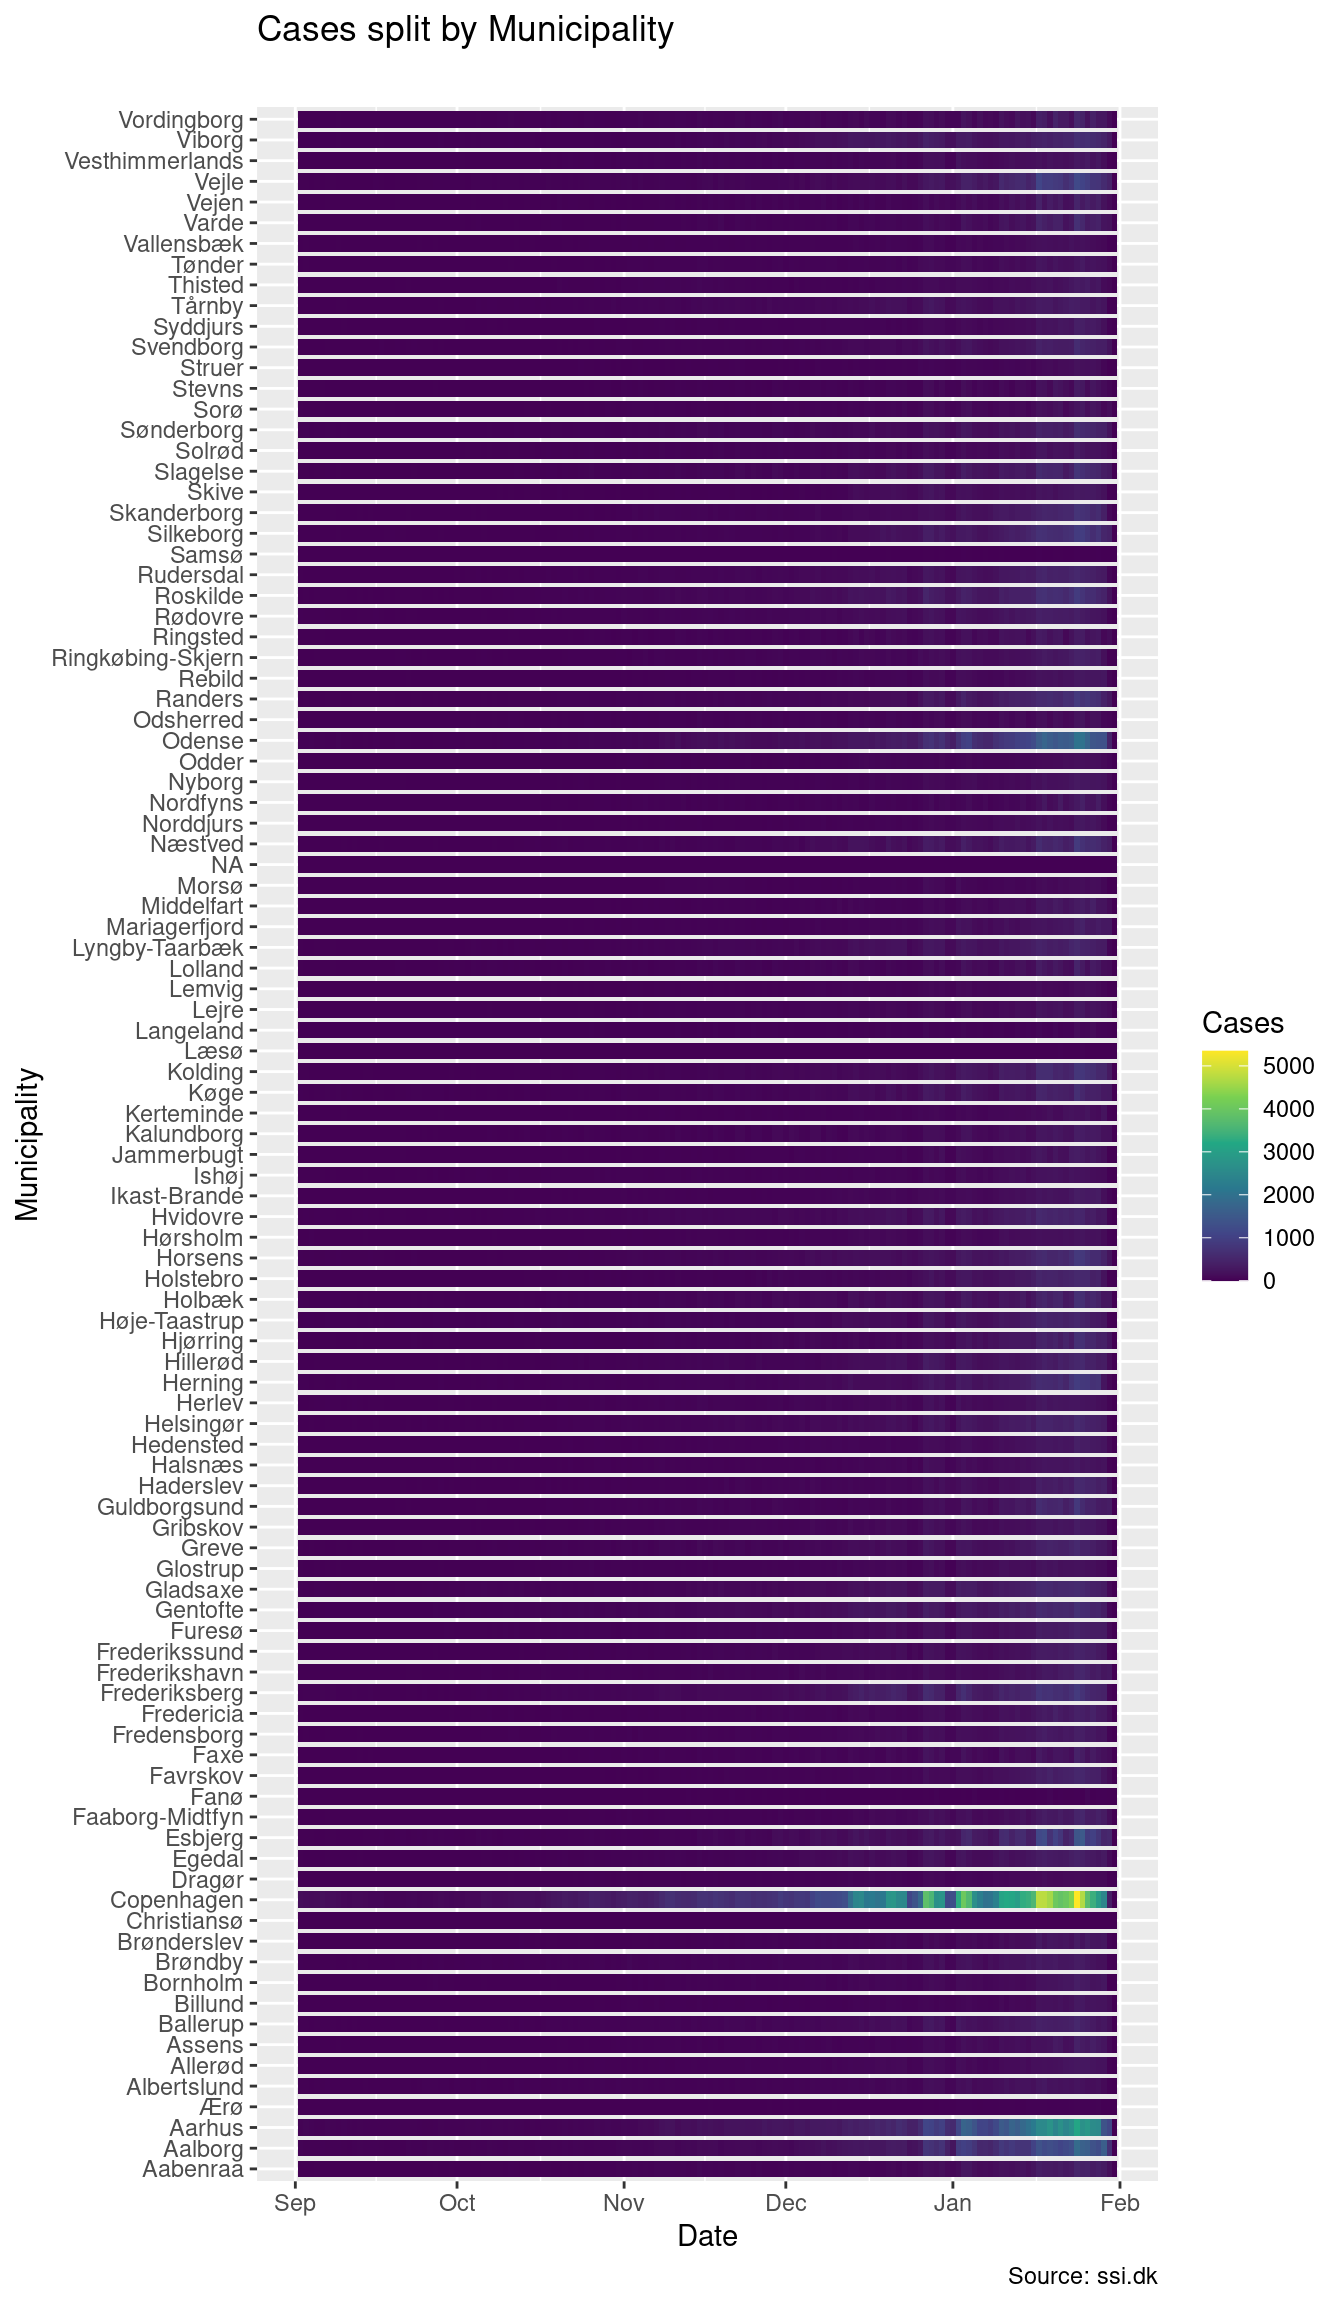
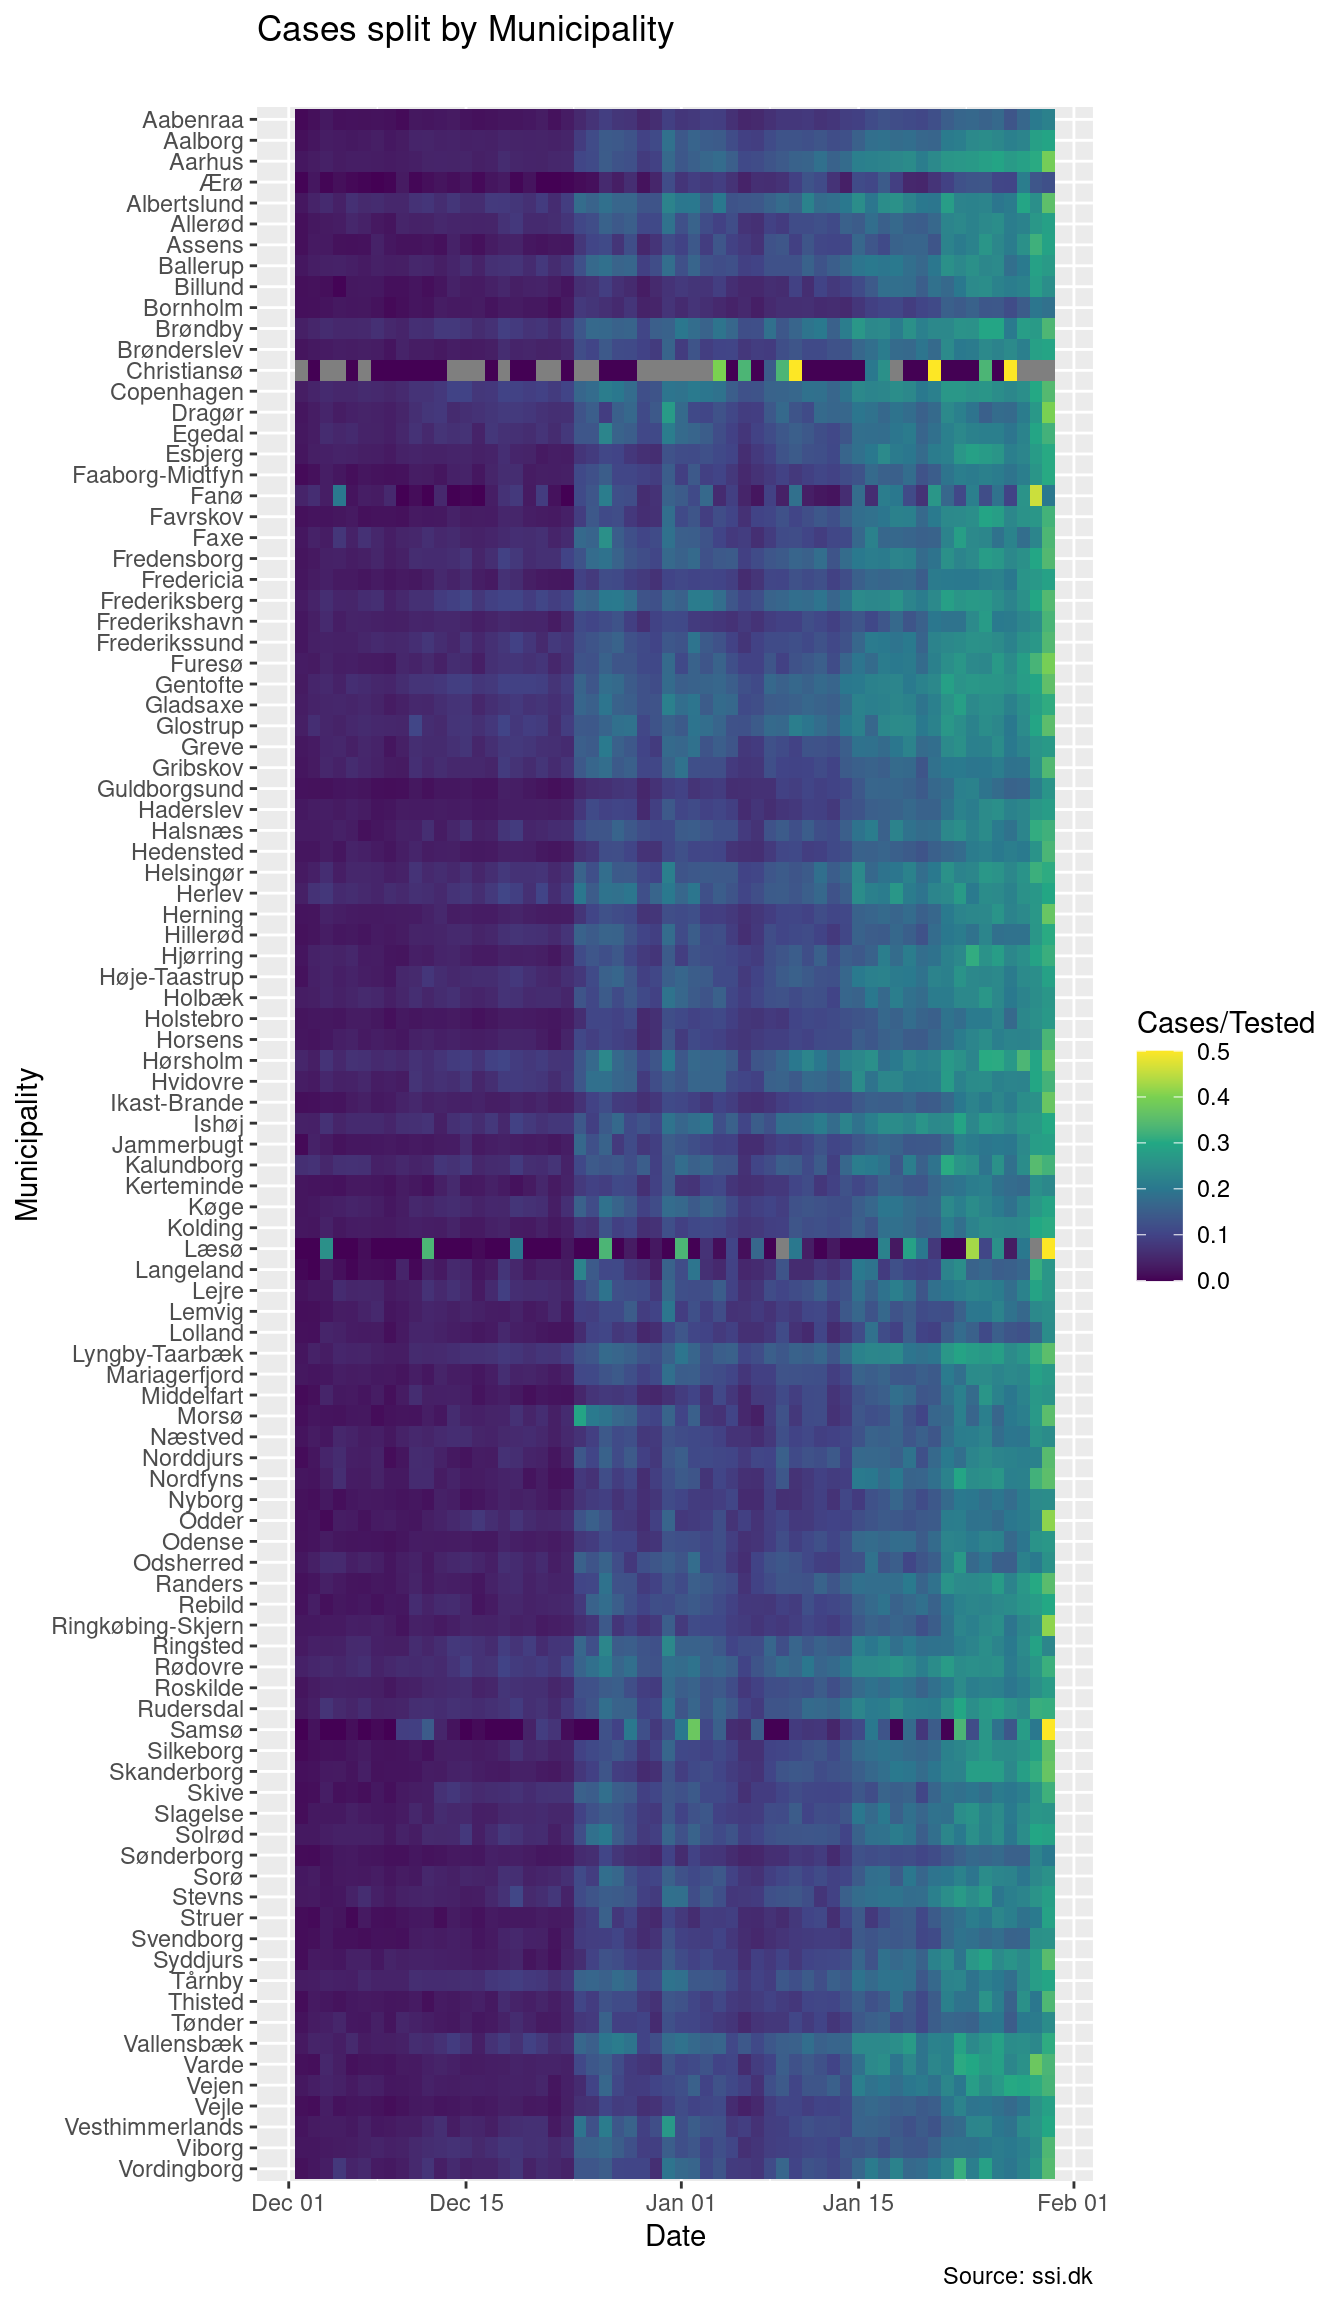
Load more data sets.

diff --git a/docs/core.html b/docs/core.html
@@ -271,7 +271,8 @@ $(document).ready(function () {
 <ul>
 <li><a href="#how-data-is-read-and-handled">How data is read and handled</a>
 <ul>
-<li><a href="#municipality-cases-as-a-time-series">Municipality cases as a time series</a></li>
+<li><a href="#case-estimation-of-rt">Case Estimation of R<sub>t</sub></a></li>
+<li><a href="#municipality-cases-and-tests-as-a-time-series">Municipality cases and tests as a time series</a></li>
 </ul></li>
 <li><a href="#plots-of-interest">Plots of interest</a>
 <ul>
@@ -285,29 +286,45 @@ $(document).ready(function () {
 <h1>Covid 19 Stats for Denmark</h1>
 <p>This file provides the new development of Covid-19 stats. Where the original development took its data from the SSI Covid-19 Dashboard, this takes data in the form of the “raw” core data.</p>
 <p>One early important part of the process is to define a date range of interest. The current variant we are interested in is Omicron, so, we can focus on recent data, rather than the full period:</p>
-<pre class="r"><code>low_cutoff &lt;- &quot;2021-09-01&quot;</code></pre>
+<pre class="r"><code>low_cutoff &lt;- &quot;2021-12-01&quot;</code></pre>
+<p>Likewise, some files contain a date at which they were produced. For instance the estimation of R<sub>t</sub>:</p>
+<pre class="r"><code>rt_date &lt;- &quot;2022_02_01&quot;</code></pre>
 <div id="how-data-is-read-and-handled" class="section level2">
 <h2>How data is read and handled</h2>
 <p>The R site we are creating here uses a separate devleopment, <code>core.R</code> to read in and handle core data. This document then references into the core R development when needed for different code chunks. This allows us for easy scripting and exploration in the R session while also neatly handling dissemination in a document like this.</p>
 <p>We first need a couple of libraries</p>
+<pre class="r"><code>library(tidyverse)
+library(lubridate)</code></pre>
 <p>Where the Dashboard data is stored in ISO8859-1 format, the core data is already in UTF-8. So they are way easier to read. We can just point tidyverse’s <code>readr</code> package directly to the data at hand. Start by setting up a core path</p>
 <pre class="r"><code>path &lt;- &quot;./data/core&quot;</code></pre>
-<div id="municipality-cases-as-a-time-series" class="section level3">
-<h3>Municipality cases as a time series</h3>
+<div id="case-estimation-of-rt" class="section level3">
+<h3>Case Estimation of R<sub>t</sub></h3>
+<p>Read in the R<sub>t</sub> case estimation data</p>
+<pre class="r"><code>rt_cases_path &lt;- sprintf(&quot;%s/Rt_cases_%s.csv&quot;, path, rt_date)
+rt_cases &lt;- readr::read_csv2(rt_cases_path)
+rt_cases</code></pre>
+<pre><code>## # A tibble: 668 × 4
+##    SampleDate estimate uncertainty_lower uncertainty_upper
+##    &lt;date&gt;        &lt;dbl&gt;             &lt;dbl&gt;             &lt;dbl&gt;
+##  1 2020-03-26      0.9               0.6               1.1
+##  2 2020-03-27      0.9               0.6               1.1
+##  3 2020-03-28      0.8               0.6               1  
+##  4 2020-03-29      0.8               0.6               1  
+##  5 2020-03-30      0.8               0.6               1  
+##  6 2020-03-31      0.8               0.6               1  
+##  7 2020-04-01      0.8               0.6               1  
+##  8 2020-04-02      0.8               0.6               0.9
+##  9 2020-04-03      0.8               0.6               1  
+## 10 2020-04-04      0.8               0.6               1  
+## # … with 658 more rows</code></pre>
+</div>
+<div id="municipality-cases-and-tests-as-a-time-series" class="section level3">
+<h3>Municipality cases and tests as a time series</h3>
 <p>This data is easily read:</p>
 <pre class="r"><code>m_cases_timeseries_path &lt;- sprintf(&quot;%s/Municipality_cases_time_series.csv&quot;, path)
-m_cases_timeseries &lt;- readr::read_csv2(m_cases_timeseries_path)</code></pre>
-<pre><code>## ℹ Using &quot;&#39;,&#39;&quot; as decimal and &quot;&#39;.&#39;&quot; as grouping mark. Use `read_delim()` for more control.</code></pre>
-<pre><code>## Rows: 705 Columns: 101</code></pre>
-<pre><code>## ── Column specification ────────────────────────────────────────────────────────
-## Delimiter: &quot;;&quot;
-## dbl  (100): Roskilde, Copenhagen, Aarhus, Frederiksberg, Kalundborg, Middelf...
-## date   (1): SampleDate</code></pre>
-<pre><code>## 
-## ℹ Use `spec()` to retrieve the full column specification for this data.
-## ℹ Specify the column types or set `show_col_types = FALSE` to quiet this message.</code></pre>
-<pre class="r"><code>m_cases_timeseries</code></pre>
-<pre><code>## # A tibble: 705 × 101
+m_cases_timeseries &lt;- readr::read_csv2(m_cases_timeseries_path)
+m_cases_timeseries</code></pre>
+<pre><code>## # A tibble: 706 × 101
 ##    SampleDate Roskilde Copenhagen Aarhus Frederiksberg Kalundborg Middelfart
 ##    &lt;date&gt;        &lt;dbl&gt;      &lt;dbl&gt;  &lt;dbl&gt;         &lt;dbl&gt;      &lt;dbl&gt;      &lt;dbl&gt;
 ##  1 2020-02-26        1          0      0             0          0          0
@@ -320,7 +337,7 @@ m_cases_timeseries &lt;- readr::read_csv2(m_cases_timeseries_path)</code></pre>
 ##  8 2020-03-05        0          2      0             2          0          0
 ##  9 2020-03-06        0          0      0             0          0          0
 ## 10 2020-03-07        0          1      1             1          0          0
-## # … with 695 more rows, and 94 more variables: Gentofte &lt;dbl&gt;, Solrød &lt;dbl&gt;,
+## # … with 696 more rows, and 94 more variables: Gentofte &lt;dbl&gt;, Solrød &lt;dbl&gt;,
 ## #   Allerød &lt;dbl&gt;, Dragør &lt;dbl&gt;, Helsingør &lt;dbl&gt;, Hillerød &lt;dbl&gt;,
 ## #   Rudersdal &lt;dbl&gt;, Næstved &lt;dbl&gt;, Aalborg &lt;dbl&gt;, Vallensbæk &lt;dbl&gt;,
 ## #   Esbjerg &lt;dbl&gt;, Favrskov &lt;dbl&gt;, Frederikssund &lt;dbl&gt;, Furesø &lt;dbl&gt;,
@@ -329,10 +346,12 @@ m_cases_timeseries &lt;- readr::read_csv2(m_cases_timeseries_path)</code></pre>
 ## #   Egedal &lt;dbl&gt;, Faxe &lt;dbl&gt;, Fredericia &lt;dbl&gt;, Faaborg-Midtfyn &lt;dbl&gt;, …</code></pre>
 <p>However, as we see, the data is <em>messy</em> and not <em>tidy</em>. To make the data set tidy, we want to bring it on essentially 3rd normal form:</p>
 <pre class="r"><code>m_cases_timeseries &lt;- m_cases_timeseries %&gt;%
-  pivot_longer(cols = -c(`SampleDate`), names_to=&quot;Municipality&quot;, values_to=&quot;Cases&quot;)
+  pivot_longer(cols = -c(`SampleDate`), names_to=&quot;Municipality&quot;, values_to=&quot;Cases&quot;) %&gt;%
+  rename(date = `SampleDate`)
+
 m_cases_timeseries</code></pre>
-<pre><code>## # A tibble: 70,500 × 3
-##    SampleDate Municipality  Cases
+<pre><code>## # A tibble: 70,600 × 3
+##    date       Municipality  Cases
 ##    &lt;date&gt;     &lt;chr&gt;         &lt;dbl&gt;
 ##  1 2020-02-26 Roskilde          1
 ##  2 2020-02-26 Copenhagen        0
@@ -344,14 +363,41 @@ m_cases_timeseries</code></pre>
 ##  8 2020-02-26 Solrød            0
 ##  9 2020-02-26 Allerød           0
 ## 10 2020-02-26 Dragør            0
-## # … with 70,490 more rows</code></pre>
+## # … with 70,590 more rows</code></pre>
+<p>We use the same strategy for the tests:</p>
+<pre class="r"><code>m_tested_timeseries_path &lt;- sprintf(&quot;%s/Municipality_tested_persons_time_series.csv&quot;, path)
+m_tested_timeseries &lt;- readr::read_csv2(m_tested_timeseries_path)
+m_tested_timeseries &lt;- m_tested_timeseries %&gt;%
+  pivot_longer(cols = -c(`PrDate_adjusted`), names_to=&quot;Municipality&quot;, values_to=&quot;Tested&quot;) %&gt;%
+  rename(date = `PrDate_adjusted`)</code></pre>
+<p>Since these two tibbles are storing the same data, we can join them:</p>
+<pre class="r"><code>municipality &lt;- m_cases_timeseries %&gt;% left_join(m_tested_timeseries, by = c(&quot;date&quot;, &quot;Municipality&quot;))
+municipality &lt;- municipality %&gt;% mutate(Municipality = factor(Municipality))
+municipality</code></pre>
+<pre><code>## # A tibble: 70,600 × 4
+##    date       Municipality  Cases Tested
+##    &lt;date&gt;     &lt;fct&gt;         &lt;dbl&gt;  &lt;dbl&gt;
+##  1 2020-02-26 Roskilde          1      3
+##  2 2020-02-26 Copenhagen        0      4
+##  3 2020-02-26 Aarhus            0      2
+##  4 2020-02-26 Frederiksberg     0      1
+##  5 2020-02-26 Kalundborg        0      0
+##  6 2020-02-26 Middelfart        0      0
+##  7 2020-02-26 Gentofte          0      0
+##  8 2020-02-26 Solrød            0      0
+##  9 2020-02-26 Allerød           0      0
+## 10 2020-02-26 Dragør            0      0
+## # … with 70,590 more rows</code></pre>
 </div>
 </div>
 <div id="plots-of-interest" class="section level2">
 <h2>Plots of interest</h2>
 <div id="cases-in-different-municipalities" class="section level3">
 <h3>Cases in different municipalities</h3>
-<pre class="r"><code>p &lt;- ggplot(m_cases_timeseries %&gt;% filter(SampleDate &gt; low_cutoff), aes(x=SampleDate, y=Municipality, fill=Cases, height=0.8))
+<p>Generally, the most recent observations in the data sets are flawed. Their counts tend to increase over time as data is reported into the central register. Hence, it is wise to cut these data from the data set and look at the remaining data instead.</p>
+<pre class="r"><code>high_cutoff &lt;- max(municipality$date) - days(2)</code></pre>
+<pre class="r"><code>p &lt;- ggplot(municipality %&gt;% filter(date &gt; low_cutoff, date &lt;= high_cutoff, Municipality != &#39;NA&#39;),
+            aes(date, forcats::fct_rev(Municipality), fill=Cases/Tested))
 p + geom_tile() +
     scale_fill_continuous(type = &quot;viridis&quot;) +
     labs(title = &quot;Cases split by Municipality&quot;, subtitle = &quot;&quot;, caption = &quot;Source: ssi.dk&quot;, x=&quot;Date&quot;, y = &quot;Municipality&quot;)</code></pre>
